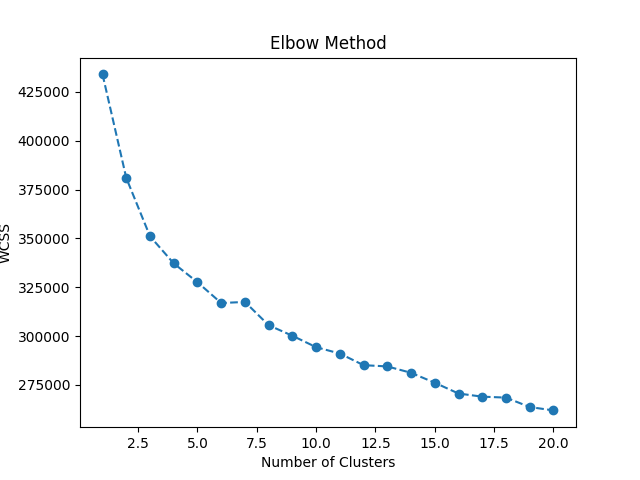
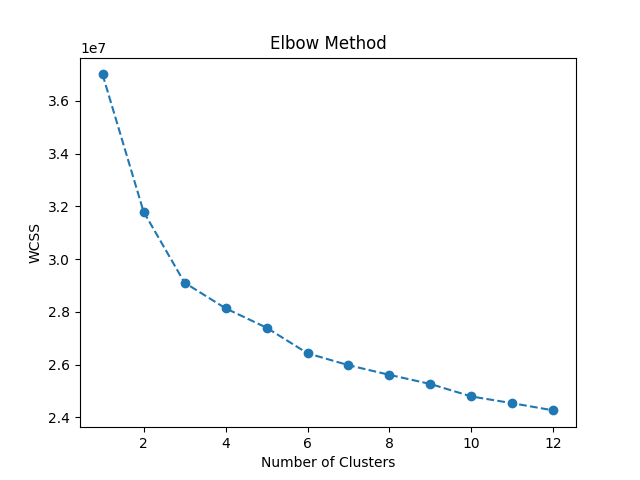
generate images & add plots for inertia

diff --git a/data.py b/data.py
@@ -19,8 +19,46 @@ import os
 elapsed_time = {"kmeans": [],"gmm": [] ,"hierarchy": [],"dbscan": [] } # Copute the computational time of every algorith
 missing_values = ['n/a', 'na', '--', '?'] # pandas only detect NaN, NA,  n/a and values and empty shell
 my_path = os.path.abspath(os.path.dirname(__file__))
-df=pd.read_csv(r''+my_path+'\\data\\USCensus1990.data.txt', sep=',', nrows=2000, na_values=missing_values)
+df=pd.read_csv(r''+my_path+'\\data\\USCensus1990.data.txt', sep=',', nrows=200000, na_values=missing_values)
 print('initial shape: ', df.shape) 
+
+def plotElbowMethod(X): 
+    # Plot Elbow Method
+    wcss=[]
+    for i in range(1,13):
+        kmeans_pca=KMeans(n_clusters=i,init='k-means++',random_state=200)
+        kmeans_pca.fit(X)
+        wcss.append(kmeans_pca.inertia_) # The lowest SSE value
+
+    plt.plot(range(1,13),wcss, marker='o', linestyle ='--')
+    plt.xlabel('Number of Clusters')
+    plt.ylabel('WCSS')
+    plt.title('Elbow Method')
+    plt.show()
+
+
+def plotSilhouette(X):
+    kmeans_kwargs = {
+        "init": "random",
+        "n_init": 10,
+        "max_iter": 300,
+        "random_state": 42,
+    }
+     # A list holds the silhouette coefficients for each k
+    silhouette_coefficients = []
+
+    # Notice you start at 2 clusters for silhouette coefficient
+    for k in range(2, 11):
+        kmeans = KMeans(n_clusters=k, **kmeans_kwargs)
+        kmeans.fit(scaled_features)
+        score = metrics.silhouette_score(scaled_features, kmeans.labels_)
+        silhouette_coefficients.append(score)
+
+    plt.plot(range(2, 11), silhouette_coefficients)
+    plt.xticks(range(2, 11))
+    plt.xlabel("Number of Clusters")
+    plt.ylabel("Silhouette Coefficient")
+    plt.show()
 
 def displayBoxPlots(df, *dropColums):
     vizualiseDF=df.copy()
@@ -111,7 +149,7 @@ for index,group in groupedByUserId: # loop through every row and if a user a lea
         df.loc[ df['caseid']== index, 'military'] = 0
 
 # Print missing values
-print('Print missing values', df.isnull().values.sum())
+print('Print missing values: ', df.isnull().values.sum())
 
 # Drop Military related columns 
 df.drop('iFeb55', axis=1, inplace=True) 
@@ -401,18 +439,8 @@ plt.show()
 
 ############################################################### Partitional clustering: KMEANS ##########################################################################
 
-# Plot Elbow Method
-wcss=[]
-for i in range(1,13):
-    kmeans_pca=KMeans(n_clusters=i,init='k-means++',random_state=200)
-    kmeans_pca.fit(X)
-    wcss.append(kmeans_pca.inertia_)
-
-plt.plot(range(1,13),wcss, marker='o', linestyle ='--')
-plt.xlabel('Number of Clusters')
-plt.ylabel('WCSS')
-plt.title('Elbow Method')
-plt.show()
+plotSilhouette(X)
+plotElbowMethod(X)
 
 # Selecting optimal number of clusters in KMeans
 for i in range(2,13):
@@ -426,7 +454,9 @@ end_kmeans = time.time()
 
 characterizeCluster(df.copy(), y_predicted)
 km.cluster_centers_ # get cluster centers
-print ('KMEANS Inertia Score: ',round(km.inertia_,3)) # inertia: lower values are better
+km.n_iter_# The number of iterations required to converge
+print ('KMEANS Inertia Score: ',round(km.inertia_,3)) # The lowest SSE value
+# The silhouette coefficient is a measure of cluster cohesion and separation
 print ('KMEANS Silhouette Score: ', round(np.mean(metrics.silhouette_samples(X, y_predicted)),3)) # Silhouette: higher values are better
 
 principal_cencus_Df['cluster_kmeans']=y_predicted
@@ -469,7 +499,7 @@ print('Estimated number of clusters: %d' % n_clusters_)
 print('Estimated number of noise points: %d' % n_noise_)
 
 silhouette_values = metrics.silhouette_samples(X, clusters)
-print ('DBSCAN Silhouette Score:', np.mean(silhouette_values))
+print ('DBSCAN Silhouette Score:', round(np.mean(silhouette_values),3)) # Silhouette: higher values are better
 
 # Visualising the clusters
 colors = ['royalblue', 'maroon', 'forestgreen', 'mediumorchid', 'tan', 'deeppink', 'olive', 'goldenrod', 'lightcyan', 'navy']
@@ -491,6 +521,8 @@ y_hc = hc.fit_predict(X)
 end_hierarchy = time.time()
 principal_cencus_Df = principal_cencus_Df.values 
 
+print ('Agglomerative Hierarchical Silhouette Score: ', round(np.mean(metrics.silhouette_samples(X, y_hc)),3)) # Silhouette: higher values are better
+
 # Visualising the clusters
 plt.scatter(principal_cencus_Df[y_hc == 0, 0], principal_cencus_Df[y_hc == 0, 1], s = 50, c = 'red', label = 'Careful')
 plt.scatter(principal_cencus_Df[y_hc == 1, 0], principal_cencus_Df[y_hc == 1, 1], s = 50, c = 'blue', label = 'Standard')
@@ -510,7 +542,7 @@ end_gmm = time.time()
 
 # print('Gaussian Mixture Model labels',labels)
 # print('gmm.means_\n', gmm.means_)
-print ("Gaussian Mixture Silhouette Score: ", metrics.silhouette_score(X, labels))
+print ("Gaussian Mixture Silhouette Score: ", round(metrics.silhouette_score(X, labels),3)) # Silhouette: higher values are better
 
 # Visualising the clusters
 plt.scatter(principal_cencus_Df[labels == 0, 0], principal_cencus_Df[labels == 0, 1], s = 50, c = 'red', label = 'Careful')

diff --git a/README.md b/README.md
@@ -1,19 +1,18 @@
 
-# Exploratory Data Analysis
+## Data description
 
-The USCensus19910raw data set, it is a multivariate dataset which consist of 124 feature, the 54 is categorical.
+The USCensus19910raw data set, it is a multivariate dataset which consist of 69 categorical feature and 2458285 rows.
 https://archive.ics.uci.edu/ml/datasets/US+Census+Data+%281990%29
-
-## Data Description
 
 | Dataset     | Instances   | Features|
 | ------------|:-----------:| -------:|
-| Original    | 2.458.285   | 125     |
+| Original    | 2.458.285   | 69      |
 | New         | centered    | 14      |
 
 As we can observe the dataset is equally distributed among sex.
-
+Print missing values: 0
 TODO: visualize income, age, sex distribution
+TODO: add box-plot from every column
 
 ![alt text](https://raw.githubusercontent.com/mixaverros88/Clustering-Market-Segmentation/main/images/sexdist.png?token=ACYAUFMLJRSCJQMYUHMCYZ3AKGR4G)
 
@@ -338,21 +337,26 @@ Vehicle Occupancy
 | 7:7 to 9 People | |
 | 8:10 or More People | |
 
+After Converting categorical variable into dummy/indicator variables:  (200000, 185)
+
 ### New Columns
-We create a new column called War. This column has 2 values 0 (no), 1(yes).
+
+We create a new column called military. This column has 2 values 0 (no), 1(yes).
 This column indicates if the person takes place at least in one war. 
 In order to fill the War column we use the following columns
 iFeb55,iKorean,iMay75880,iRvetserv,iSept80,iVietnam,iWWII
 
 ### Drop Colums
 
-We drop the columns (iFeb55,iKorean,iMay75880,iRvetserv,iSept80,iVietnam,iWWII) that has information about in what war a person has involved since we add this information in war column.
+We drop the columns (iFeb55,iKorean,iMay75880,iRvetserv,iSept80,iVietnam,iWWII) that has information about in what war a person has involved since we add this information in military column.
+
+### Hopkins Test
 
 TODO: HOPKINS TEST
 
 ## Principal Components Analysis
-By reducing the number of features, we’re improving the performance of our algorithm. 
-we need to decide how many features we’d like to keep based on the cumulative variance plot
+
+We perform PCA only for visuale perposes.
 TODO: add plot as image
 
 ## K-Means Clustering
@@ -361,12 +365,13 @@ TODO: add elbot plot as image
 ## Hierachical Clustering
 
 ## DBSCAN
-How to compute min_samples?
+
 I didn't find an automatic way to compute the min_sample.
 A rule of thumb in order to compute the min_sample for high dimensonal dataset is to multimply the columns by 2.
 In order to calculate the distance from each point to its closest  neighbor we are using the NearestNeighbors
 
-## Evaluation
+## Models Evaluation
+
 | Model | Inertia | Silhouette |
 | --- | --- | --- |
 | kmeans | | | 
@@ -377,6 +382,7 @@ In order to calculate the distance from each point to its closest  neighbor we a
 ## Cluster Characterization
 
 ## Computation Time
+
 | Model | Time (in seconds) |
 | --- | --- |
 | kmeans | |
